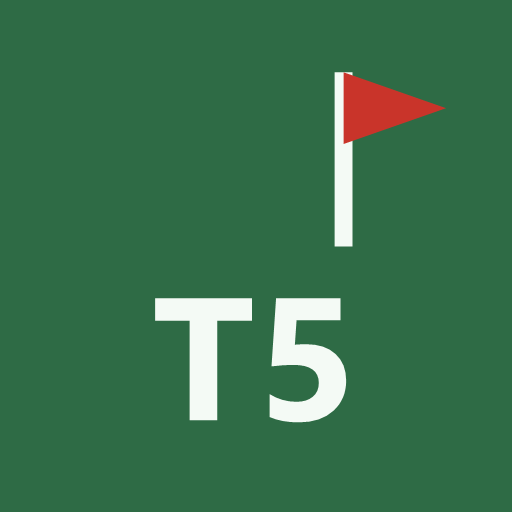
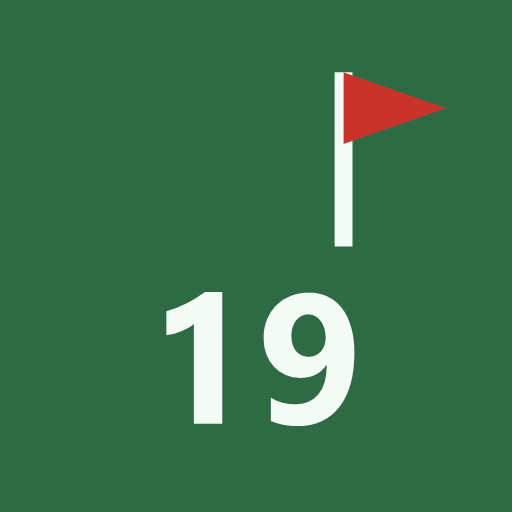
Rename to The 19th; profile photos; tap names to open profiles
- App name is now The 19th (title, home-screen name, headers, invite text, icon); Tiger 5 stays as a feature
- Profile photos: add/change/remove on the Me tab; cropped to 400px squares in the avatars bucket
- Photos replace initials in avatar circles and appear as small circles next to names in tables
- Tapping a name or avatar opens that player's profile
- supabase: profiles.avatar_url (must point at the player's own avatars folder)
- Service worker bumped to v18

Changed region(s): [[0.2812, 0.5625, 0.7188, 0.8438]]

diff --git a/app.js b/app.js
@@ -139,13 +139,13 @@ function cacheLoad(){const c=LS.get(CACHEKEY,null);if(!c||c.me!==S.me)return fal
 
 async function loadAll(){
  try{
-  const {data:prof,error:e1}=await sb.from('profiles').select('id,handle,friend_code').eq('id',S.me).maybeSingle();if(e1)throw e1;
+  const {data:prof,error:e1}=await sb.from('profiles').select('id,handle,friend_code,avatar_url').eq('id',S.me).maybeSingle();if(e1)throw e1;
   if(!prof){S.status='setup';return render()}
   const profiles={[S.me]:prof};
   const {data:fr,error:e2}=await sb.from('friendships').select('*');if(e2)throw e2;
   S.friendships=fr||[];
   const others=[...new Set(S.friendships.map(other))];
-  if(others.length){const {data:ps,error}=await sb.from('profiles').select('id,handle').in('id',others);if(error)throw error;(ps||[]).forEach(p=>profiles[p.id]=p)}
+  if(others.length){const {data:ps,error}=await sb.from('profiles').select('id,handle,avatar_url').in('id',others);if(error)throw error;(ps||[]).forEach(p=>profiles[p.id]=p)}
   const ids=[S.me,...new Set(S.friendships.filter(f=>f.status==='accepted').map(other))];
   const tripMates=await loadTrips(profiles,ids);
   await loadBoard(profiles);
@@ -191,7 +191,7 @@ async function loadTrips(profiles,friendsAndMe){
   S.trips=trips.sort((x,y)=>y.start_date.localeCompare(x.start_date));S.tripMembers=members;S.bets=betsBy;S.tripsOk=true;
   const mates=[...new Set(Object.values(members).flat())].filter(u=>!friendsAndMe.includes(u));
   const missing=mates.filter(u=>!profiles[u]);
-  if(missing.length){const {data:ps}=await sb.from('profiles').select('id,handle').in('id',missing);(ps||[]).forEach(p=>profiles[p.id]=p)}
+  if(missing.length){const {data:ps}=await sb.from('profiles').select('id,handle,avatar_url').in('id',missing);(ps||[]).forEach(p=>profiles[p.id]=p)}
   return mates;
  }catch(e){
   console.error(e);
@@ -218,7 +218,7 @@ async function loadSocial(rounds){
   }
   S.likes=likes;S.comments=comments;S.attests=attests;
   const need=[...new Set([...Object.values(likes).flat(),...Object.values(attests).flat(),...Object.values(comments).flat().map(c=>c.user_id)])].filter(u=>!S.profiles[u]);
-  if(need.length){const {data}=await sb.from('profiles').select('id,handle').in('id',need);(data||[]).forEach(p=>S.profiles[p.id]=p)}
+  if(need.length){const {data}=await sb.from('profiles').select('id,handle,avatar_url').in('id',need);(data||[]).forEach(p=>S.profiles[p.id]=p)}
  }catch(e){console.error(e)}
 }
 // Loads Betting Board bets the viewer can see, with everyone's picks.
@@ -231,7 +231,7 @@ async function loadBoard(profiles){
   const by={};picks.forEach(p=>(by[p.bet_id]=by[p.bet_id]||[]).push(p));
   S.board=bs||[];S.boardPicks=by;S.boardOk=true;
   const need=[...new Set([...S.board.map(b=>b.created_by),...picks.map(p=>p.user_id)])].filter(u=>!profiles[u]);
-  if(need.length){const {data:ps}=await sb.from('profiles').select('id,handle').in('id',need);(ps||[]).forEach(p=>profiles[p.id]=p)}
+  if(need.length){const {data:ps}=await sb.from('profiles').select('id,handle,avatar_url').in('id',need);(ps||[]).forEach(p=>profiles[p.id]=p)}
  }catch(e){
   console.error(e);
   if(e&&(e.code==='42P01'||e.code==='PGRST205'||/does not exist|schema cache/i.test(e.message||'')))S.boardOk=false;
@@ -287,8 +287,8 @@ function render(){
  if(S.status==='auth')html=authView();
  else if(S.status==='setup')html=setupView();
  else if(S.view==='play')html=playHtml();
- else if(S.status==='loading')html=header('Tiger 5')+`<div class="empty"><b>Loading your group…</b>Rounds and friends appear here in a moment.</div>`;
- else if(S.status!=='ready')html=header('Tiger 5')+offlineView();
+ else if(S.status==='loading')html=header('The 19th')+`<div class="empty"><b>Loading your group…</b>Rounds and friends appear here in a moment.</div>`;
+ else if(S.status!=='ready')html=header('The 19th')+offlineView();
  else if(S.view==='friends')html=friendsView();
  else if(S.view==='board')html=boardView();
  else if(S.view==='newbet')html=newBetView();
@@ -316,9 +316,16 @@ function renderTabs(){
 }
 function header(title,eyebrow){
  const ready=S.status==='ready';
- return `<header class="top"><div style="min-width:0"><span class="eyebrow">${esc(eyebrow||'Tiger 5')}${S.offline&&ready?' · offline':''}</span><h1>${esc(title)}</h1></div>${ready?`<button class="idx" data-nav="me" aria-label="Your handicap index"><b>${fmtIdx(myIndex())}</b><span>Index</span></button>`:''}</header>`;
+ return `<header class="top"><div style="min-width:0"><span class="eyebrow">${esc(eyebrow||'The 19th')}${S.offline&&ready?' · offline':''}</span><h1>${esc(title)}</h1></div>${ready?`<button class="idx" data-nav="me" aria-label="Your handicap index"><b>${fmtIdx(myIndex())}</b><span>Index</span></button>`:''}</header>`;
 }
-const av=(id)=>`<span class="av" style="background:${avColor(id)}" aria-hidden="true">${esc(initials(handle(id)))}</span>`;
+// Avatar circle: the player's photo if they've added one, otherwise colored initials.
+// Only photos from this app's own avatars bucket are shown.
+const AVATAR_PREFIX=(CFG.supabaseUrl||'')+'/storage/v1/object/public/avatars/';
+const photoOf=(id)=>{const u=S.profiles[id]&&S.profiles[id].avatar_url;return u&&u.startsWith(AVATAR_PREFIX)?u:null};
+const av=(id,cls='')=>{const u=photoOf(id);return u?`<img class="av ${cls}" src="${esc(u)}" alt="" loading="lazy" decoding="async">`
+ :`<span class="av ${cls}" style="background:${avColor(id)}" aria-hidden="true">${esc(initials(handle(id)))}</span>`};
+// Small photo circle next to a name in tables and lists.
+const withPic=(id,label)=>`<span class="npic">${av(id,'xs')}<span>${esc(label)}</span></span>`;
 
 function offlineView(){
  const msg=!configured?'This copy isn’t connected to a database yet. Add your Supabase details to config.js (see README.md).'
@@ -328,7 +335,7 @@ function offlineView(){
 }
 function authView(){
  const up=S.authStep==='signup';
- return `${header(up?'Create account':'Sign in','Tiger 5')}
+ return `${header(up?'Create account':'Sign in','The 19th')}
  <div class="card"><p style="margin-top:0">Track your score, your handicap index and the five mistakes that cost you strokes, and see your friends’ rounds.</p>
  <div class="seg" style="margin-bottom:4px"><button data-act="authmode" data-m="signin" aria-pressed="${!up}">Sign in</button><button data-act="authmode" data-m="signup" aria-pressed="${up}">Create account</button></div>
  <label for="email">Email</label><input id="email" type="email" autocomplete="email" inputmode="email" placeholder="you@example.com" value="${esc(S.authEmail)}">
@@ -339,7 +346,7 @@ function authView(){
  </div>${LS.get(INVKEY,null)?`<p class="sub">You were invited by a friend. ${up?'Create an account':'Sign in'} and we’ll connect you.</p>`:''}`;
 }
 function setupView(){
- return `${header('Welcome','Tiger 5')}
+ return `${header('Welcome','The 19th')}
  <div class="card"><label for="handle">Your name in the app</label><input id="handle" maxlength="30" autocomplete="nickname" placeholder="e.g. Alec C.">
  <p class="hint">This is how friends will see you.</p>
  <button class="primary wide" style="margin-top:14px" data-act="join" ${S.busy?'disabled':''}>Continue</button></div>`;
@@ -374,12 +381,12 @@ function feedCard(r){
  const rings=[
   ['Score',r.score,r.complete?rel(r.score-r.parPlayed):r.holesPlayed+' holes',r.diff==null?none:ix==null?ok:r.diff<=ix?good:r.diff<=ix+3?ok:bad],
   ['Putts',r.putts==null?'–':r.putts,r.putts==null?'not tracked':(p18/18).toFixed(1)+'/hole',p18==null?none:p18<=32?good:p18<=36?ok:bad],
-  ['Tiger 5',r.t5,'misses',r.t5<=3?good:r.t5<=7?ok:bad],
+  ['The 19th',r.t5,'misses',r.t5<=3?good:r.t5<=7?ok:bad],
   ['Diff',fmtDiff(r.diff),r.diff==null?'not rated':'differential',r.diff==null?none:ix==null?ok:r.diff<=ix?good:r.diff<=ix+3?ok:bad]];
  const key=esc(r.uid)+'/'+esc(r.id);
  return `<article class="card fcard">
+ <button class="fhead" data-player="${esc(r.uid)}" aria-label="View ${esc(mine?'your':handle(r.uid)+'’s')} profile">${av(r.uid)}<div class="mid"><b>${esc(mine?'You':handle(r.uid))}${ix!=null?` <span class="fidx">${fmtIdx(ix)}</span>`:''}</b></div><span class="fwhen">${relDay(r.date)}</span></button>
  <button class="fmain" data-round="${key}" aria-label="Open ${esc(mine?'your':handle(r.uid)+'’s')} round at ${esc(r.course)}">
-  <div class="fhead">${av(r.uid)}<div class="mid"><b>${esc(mine?'You':handle(r.uid))}${ix!=null?` <span class="fidx">${fmtIdx(ix)}</span>`:''}</b></div><span class="fwhen">${relDay(r.date)}</span></div>
   <div class="fcourse">${FLAG}<span>${esc(r.course)}</span></div>
   <div class="ftee">${[r.tee?esc(r.tee)+' tees':'',r.n===9?(r.nine==='back'?'Back 9':'Front 9'):''].filter(Boolean).join(' · ')}</div>
   <div class="rings">${rings.map(([l,v,s,c])=>`<div class="ring"><span class="rl">${l}</span><b style="--ring:${c}">${v}</b><small>${s}</small></div>`).join('')}</div>
@@ -392,7 +399,7 @@ function feedCard(r){
  </div>
  <div class="fcomments">
   ${coms.length>3?`<button class="link" data-comments="${key}">View all ${coms.length} comments</button>`:''}
-  ${coms.slice(-3).map(c=>`<p><b>${esc(c.user_id===S.me?'You':handle(c.user_id))}</b> ${esc(c.body)}</p>`).join('')}
+  ${coms.slice(-3).map(c=>`<p><button class="link plain namelink" data-player="${esc(c.user_id)}">${esc(c.user_id===S.me?'You':handle(c.user_id))}</button> ${esc(c.body)}</p>`).join('')}
   <div class="row"><input id="fc-${esc(r.id)}" maxlength="500" placeholder="Add a comment…" autocomplete="off" aria-label="Comment on this round"><button style="flex:none" data-act="postcomment" data-id="${esc(r.id)}" data-input="fc-${esc(r.id)}">Post</button></div>
  </div>`}
  </article>`;
@@ -458,7 +465,7 @@ function friendsView(){
   <div class="row"><span class="code">${esc(me().friend_code||'——')}</span><button class="primary" data-act="share">Share invite link</button></div></div>`;
  h+=`<h2>Handicap standings</h2>`;
  const st=[S.me,...fr].map(id=>({id,h:hcp(S.rounds[id]),n:(S.rounds[id]||[]).length})).sort((a,b)=>(a.h.index==null)-(b.h.index==null)||(a.h.index||0)-(b.h.index||0));
- h+=`<div class="card"><table><thead><tr><th>Player</th><th class="n">Rounds</th><th class="n">Index</th></tr></thead><tbody>${st.map((s,i)=>`<tr><td><button class="link plain" style="color:var(--ink);text-decoration:none;font-weight:600" data-player="${esc(s.id)}">${i+1}. ${esc(s.id===S.me?'You':handle(s.id))}</button></td><td class="n" style="font-weight:400">${s.n}</td><td class="n">${fmtIdx(s.h.index)}</td></tr>`).join('')}</tbody></table>${fr.length?'':`<p class="hint">Add friends to compare handicaps.</p>`}</div>`;
+ h+=`<div class="card"><table><thead><tr><th>Player</th><th class="n">Rounds</th><th class="n">Index</th></tr></thead><tbody>${st.map((s,i)=>`<tr><td><button class="link plain" style="color:var(--ink);text-decoration:none;font-weight:600" data-player="${esc(s.id)}">${i+1}. ${withPic(s.id,s.id===S.me?'You':handle(s.id))}</button></td><td class="n" style="font-weight:400">${s.n}</td><td class="n">${fmtIdx(s.h.index)}</td></tr>`).join('')}</tbody></table>${fr.length?'':`<p class="hint">Add friends to compare handicaps.</p>`}</div>`;
  if(fr.length){h+=`<h2>Your friends</h2>`;fr.forEach(id=>{const x=hcp(S.rounds[id]);h+=`<div class="card item"><button class="item plain" data-player="${esc(id)}">${av(id)}<div class="mid"><b>${esc(handle(id))}</b><span>Index ${fmtIdx(x.index)} · ${(S.rounds[id]||[]).length} rounds</span></div></button>${S.confirm==='rm:'+id?`<button data-act="unfriend" data-id="${esc(id)}">Remove</button><button class="link" data-act="cancelc">Keep</button>`:`<button class="link" data-act="ask" data-c="rm:${esc(id)}">Remove</button>`}</div>`})}
  if(out.length){h+=`<h2>Waiting on them</h2>`;out.forEach(id=>h+=`<div class="card item">${av(id)}<div class="mid"><b>${esc(handle(id))}</b><span>Request sent</span></div><button class="link" data-act="unfriend" data-id="${esc(id)}">Cancel</button></div>`)}
  return h;
@@ -479,11 +486,13 @@ function playerView(id){
  const mineView=id===S.me;
  if(!mineView&&!isFriend(id))return header(handle(id),'Player')+`<div class="card empty"><b>Scores are shared between friends</b>Add ${esc(handle(id))} as a friend to see all their rounds.<div style="margin-top:14px">${friendAction(id,'Add friend')}</div></div>`;
  const rounds=S.rounds[id]||[],x=hcp(rounds);
- let h=header(mineView?'Your card':handle(id),mineView?'Tiger 5':'Friend');
+ let h=header(mineView?'Your card':handle(id),mineView?'The 19th':'Friend');
  if(mineView){
   h+=S.editName?`<div class="card"><label for="newname">Your name in the app</label><input id="newname" maxlength="30" value="${esc(me().handle||'')}"><div class="row" style="margin-top:10px"><button class="primary" data-act="savename">Save</button><button data-act="cancelname">Cancel</button></div></div>`
    :`<p class="sub">Playing as <b>${esc(me().handle||'')}</b> · <button class="link" data-act="editname">Change name</button> · <button class="link" data-act="signout">Sign out</button></p>`;
  }
+ // Profile photo: big circle; on your own card, buttons to add, change or remove it.
+ h+=`<div class="phead">${av(id,'lg')}${mineView?`<div><label class="filebtn" for="avfile">${S.busy==='photo'?'Uploading…':photoOf(id)?'Change photo':'Add a photo'}</label><input id="avfile" type="file" accept="image/*" hidden>${photoOf(id)?`<button class="link" data-act="rmphoto">Remove photo</button>`:''}<p class="hint" style="margin:6px 0 0">Shows next to your name for your friends.</p></div>`:`<div><p class="hint" style="margin:0">${(S.rounds[id]||[]).length} rounds posted</p></div>`}</div>`;
  const complete=rounds.filter(r=>r.complete),holes=complete.reduce((a,r)=>a+r.n,0);
  const t5per18=holes?complete.reduce((a,r)=>a+r.t5,0)/holes*18:null;
  const f18=complete.filter(r=>r.n===18);
@@ -510,6 +519,7 @@ function roundView(key){
  if(!r)return header('Round')+`<div class="card empty"><b>Round not found</b>It may have been deleted.</div>`;
  const mine=u===S.me,x=hcp(S.rounds[u]);
  let h=header(r.course,(mine?'You':handle(u))+' · '+fmtDate(r.date));
+ h+=`<button class="item plain" style="margin:0 0 8px" data-player="${esc(u)}">${av(u)}<div class="mid"><b>${esc(mine?'You':handle(u))}</b><span>View profile</span></div></button>`;
  h+=`<p class="sub">${r.tee?esc(r.tee)+' tees · ':''}${r.rating?`${r.rating}/${r.slope}`:'No rating'}${r.n===9?' · 9 holes':''}${x.used.has(r.id)?' · <span class="tag">Counts toward index</span>':''}</p>`;
  h+=`<div class="card big"><div><b>${r.score}</b><span>${r.complete?rel(r.score-r.parPlayed)+' to par':r.holesPlayed+' holes'}</span></div><div><b>${r.net!=null?r.net:'—'}</b><span>Net${r.ch!=null?` (CH ${r.ch})`:''}</span></div><div><b>${fmtDiff(r.diff)}</b><span>Differential</span></div><div><b>${r.t5}</b><span>Tiger 5</span></div></div>`;
  const hs=r.holes||[],start=r.nine==='back'?10:1;
@@ -533,7 +543,7 @@ function roundView(key){
   if(likes.length||att.length)h+=`<p class="hint" style="margin:0 0 10px">${likes.length?'👍 Liked by '+esc(namesList(likes)):''}${likes.length&&att.length?' · ':''}${att.length?'✋ Attested by '+esc(namesList(att)):''}</p>`;
   if(!att.length&&!mine)h+=`<p class="hint" style="margin:-4px 0 10px">Played with ${esc(handle(u))}? Attest to vouch for the score.</p>`;
   h+=`<h2 id="comments">Comments${coms.length?' ('+coms.length+')':''}</h2><div class="card">`;
-  h+=coms.length?coms.map(c=>`<div class="comment">${av(c.user_id)}<div class="mid"><b>${esc(c.user_id===S.me?'You':handle(c.user_id))}</b> <span class="hint" style="margin:0">${relDay(c.created_at.slice(0,10))}</span><p>${esc(c.body)}</p></div>${c.user_id===S.me||mine?`<button class="link" data-delcomment="${esc(c.id)}" data-rid="${esc(r.id)}" aria-label="Delete comment">Delete</button>`:''}</div>`).join(''):`<p class="hint" style="margin:0 0 6px">No comments yet. Say something nice. Or don’t.</p>`;
+  h+=coms.length?coms.map(c=>`<div class="comment">${av(c.user_id)}<div class="mid"><button class="link plain namelink" data-player="${esc(c.user_id)}">${esc(c.user_id===S.me?'You':handle(c.user_id))}</button> <span class="hint" style="margin:0">${relDay(c.created_at.slice(0,10))}</span><p>${esc(c.body)}</p></div>${c.user_id===S.me||mine?`<button class="link" data-delcomment="${esc(c.id)}" data-rid="${esc(r.id)}" aria-label="Delete comment">Delete</button>`:''}</div>`).join(''):`<p class="hint" style="margin:0 0 6px">No comments yet. Say something nice. Or don’t.</p>`;
   h+=`<div class="row" style="margin-top:8px"><input id="cbody" maxlength="500" placeholder="Add a comment…" autocomplete="off"><button class="primary" style="flex:none" data-act="postcomment" data-id="${esc(r.id)}" ${S.busy?'disabled':''}>Post</button></div></div>`;
  }
  if(mine&&!r.pending)h+=S.confirm==='del'?`<div class="card note"><p style="margin-top:0">Delete this round for good? It also comes off your handicap.</p><div class="row"><button class="danger" data-act="delround" data-id="${esc(r.id)}">Delete round</button><button data-act="cancelc">Keep it</button></div></div>`:`<button class="wide" data-act="ask" data-c="del">Delete round</button>`;
@@ -681,7 +691,7 @@ function tripView(id){
    const s=betStandings(t,b);
    h+=`<p class="hint" style="margin:4px 0 0">${k.single?'Lowest 18-hole score in a single round':b.scoring==='avg'?'Average per 18 holes':'Total across all trip rounds'}</p>`;
    if(!s.ranked.length)h+=`<p class="hint">No finished trip rounds yet.</p>`;
-   else h+=`<table style="margin-top:6px"><tbody>${s.ranked.map(r=>`<tr class="${s.leaders.includes(r.uid)?'lead':''}"><td>${esc(who(r.uid))}</td><td class="n" style="font-weight:400;color:var(--mute)">${r.n} rd${r.n===1?'':'s'}</td><td class="n">${r.v}</td></tr>`).join('')}${s.none.map(r=>`<tr><td style="color:var(--mute)">${esc(who(r.uid))}</td><td></td><td class="n" style="font-weight:400;color:var(--mute)">${b.kind==='net'?'no index':(b.kind==='putts'||b.kind==='three_putts')&&tripRounds(t,r.uid).length?'no putts':'—'}</td></tr>`).join('')}</tbody></table>`;
+   else h+=`<table style="margin-top:6px"><tbody>${s.ranked.map(r=>`<tr class="${s.leaders.includes(r.uid)?'lead':''}"><td>${withPic(r.uid,who(r.uid))}</td><td class="n" style="font-weight:400;color:var(--mute)">${r.n} rd${r.n===1?'':'s'}</td><td class="n">${r.v}</td></tr>`).join('')}${s.none.map(r=>`<tr><td style="color:var(--mute)">${withPic(r.uid,who(r.uid))}</td><td></td><td class="n" style="font-weight:400;color:var(--mute)">${b.kind==='net'?'no index':(b.kind==='putts'||b.kind==='three_putts')&&tripRounds(t,r.uid).length?'no putts':'—'}</td></tr>`).join('')}</tbody></table>`;
    if(s.uneven)h+=`<p class="hint">Players have played different numbers of rounds, so totals aren’t a fair comparison yet.</p>`;
    if(s.leaders.length)h+=`<p class="hint">${st==='done'?'Won by':'Leading:'} <b>${esc(s.leaders.map(who).join(' & '))}</b>${s.leaders.length>1&&stake?' (pot split)':''}</p>`;
   }
@@ -710,7 +720,7 @@ function tripView(id){
 
  if(tab==='players'){
  h+=`<div class="card">`;
- h+=mem.map(u=>`<div class="item" style="padding:6px 0">${av(u)}<div class="mid"><b>${esc(who(u))}</b>${u===t.created_by?'<span>Organizer</span>':''}</div>${friendAction(u,'Add friend')}${owner&&u!==S.me?`<button class="link" data-act="rmmember" data-u="${esc(u)}">Remove</button>`:''}</div>`).join('');
+ h+=mem.map(u=>`<div class="item" style="padding:6px 0"><button class="item plain" data-player="${esc(u)}" aria-label="View ${esc(who(u))} profile">${av(u)}<div class="mid"><b>${esc(who(u))}</b>${u===t.created_by?'<span>Organizer</span>':''}</div></button>${friendAction(u,'Add friend')}${owner&&u!==S.me?`<button class="link" data-act="rmmember" data-u="${esc(u)}">Remove</button>`:''}</div>`).join('');
  if(mem.some(u=>u!==S.me&&!isFriend(u)))h+=`<p class="hint">Friends see each other’s rounds all year, not just on this trip.</p>`;
  {
   // Anyone on the trip can add their own friends; only the organizer removes others.
@@ -734,7 +744,7 @@ function extrasBoard(t,key,emoji,one,many){
  const rows=mem.map(u=>{const rs=allTripRounds(t,u);return{u,n:rs.length,tot:rs.reduce((a,r)=>a+holeSum(r,key),0)}}).sort((a,b)=>b.tot-a.tot||b.n-a.n);
  const grand=rows.reduce((a,r)=>a+r.tot,0),top=rows.length&&rows[0].tot?rows[0].tot:null;
  let h=`<div class="card big" style="margin-bottom:10px"><div><b>${emoji} ${grand}</b><span>${grand===1?one:many} on the trip</span></div></div>`;
- h+=`<div class="card"><table><thead><tr><th>Player</th><th class="n">Rounds</th><th class="n">Per round</th><th class="n">Total</th></tr></thead><tbody>${rows.map(r=>`<tr class="${top!=null&&r.tot===top?'lead':''}"><td>${esc(who(r.u))}</td><td class="n" style="font-weight:400;color:var(--mute)">${r.n}</td><td class="n" style="font-weight:400">${r.n?(r.tot/r.n).toFixed(1):'—'}</td><td class="n">${r.tot}</td></tr>`).join('')}</tbody></table>
+ h+=`<div class="card"><table><thead><tr><th>Player</th><th class="n">Rounds</th><th class="n">Per round</th><th class="n">Total</th></tr></thead><tbody>${rows.map(r=>`<tr class="${top!=null&&r.tot===top?'lead':''}"><td>${withPic(r.u,who(r.u))}</td><td class="n" style="font-weight:400;color:var(--mute)">${r.n}</td><td class="n" style="font-weight:400">${r.n?(r.tot/r.n).toFixed(1):'—'}</td><td class="n">${r.tot}</td></tr>`).join('')}</tbody></table>
  <p class="hint">Counted from the ${emoji} ${many} entered hole by hole on rounds posted ${fmtRange(t)}.</p></div>`;
  return h;
 }
@@ -742,14 +752,14 @@ function settleCard(t,sv,title,note){
  const mem=S.tripMembers[t.id]||[],who=(u)=>u===S.me?'You':handle(u);
  const sgn=(v)=>{v=Math.round((v||0)*100)/100;return `<span class="${v>0?'pos':v<0?'neg':''}">${v>0?'+':v<0?'−':''}${fmtMoney(v)}</span>`};
  return `<h2>${esc(title)}</h2><div class="card">`
-  +(sv.pays.length?`<table><tbody>${sv.pays.map(p=>`<tr><td>${esc(who(p.from))} pay${p.from===S.me?'':'s'} ${esc(p.to===S.me?'you':handle(p.to))}</td><td class="n">${fmtMoney(p.amt)}</td></tr>`).join('')}</tbody></table>`:`<p style="margin:0">Nobody owes anything yet.</p>`)
+  +(sv.pays.length?`<table><tbody>${sv.pays.map(p=>`<tr><td>${av(p.from,'xs')} ${esc(who(p.from))} pay${p.from===S.me?'':'s'} ${esc(p.to===S.me?'you':handle(p.to))}</td><td class="n">${fmtMoney(p.amt)}</td></tr>`).join('')}</tbody></table>`:`<p style="margin:0">Nobody owes anything yet.</p>`)
   +`<p class="hint">Net: ${mem.map(u=>`${esc(who(u))} ${sgn(sv.net[u])}`).join(' · ')}</p><p class="hint">${esc(note)} The app only keeps track; settle up however your group pays each other.</p></div>`;
 }
 function expensesSection(t,mem,who){
  const list=S.expenses[t.id]||[],ex=expenseTotals(t),total=list.reduce((a,e)=>a+e.amount,0);
  let h='';
  if(list.length){
-  h+=`<div class="card"><div class="bet-head"><b>Trip spending</b><span class="money">${fmtMoney(total)}</span></div><table style="margin-top:6px"><thead><tr><th>Player</th><th class="n">Paid</th><th class="n">Their share</th></tr></thead><tbody>${mem.map(u=>`<tr><td>${esc(who(u))}</td><td class="n" style="font-weight:400">${fmtMoney(ex.paid[u]||0)}</td><td class="n">${fmtMoney(ex.share[u]||0)}</td></tr>`).join('')}</tbody></table></div>`;
+  h+=`<div class="card"><div class="bet-head"><b>Trip spending</b><span class="money">${fmtMoney(total)}</span></div><table style="margin-top:6px"><thead><tr><th>Player</th><th class="n">Paid</th><th class="n">Their share</th></tr></thead><tbody>${mem.map(u=>`<tr><td>${withPic(u,who(u))}</td><td class="n" style="font-weight:400">${fmtMoney(ex.paid[u]||0)}</td><td class="n">${fmtMoney(ex.share[u]||0)}</td></tr>`).join('')}</tbody></table></div>`;
   h+=settleCard(t,settleReceipts(t),'Settle up receipts','Receipts only: what each person paid minus their share.');
   h+=`<h2>All receipts</h2>`;
   list.forEach(e=>{
@@ -771,6 +781,28 @@ function expensesSection(t,mem,who){
  <button class="primary wide" style="margin-top:14px" data-act="addexpense" ${S.busy?'disabled':''}>${S.busy?'Saving…':'Add receipt'}</button></div>`;
  if(S.receiptView)h+=`<div class="overlay" role="dialog" aria-label="Receipt"><div class="row" style="flex:none"><b style="color:#fff">Receipt</b><button data-act="closereceipt" style="flex:none">Close</button></div>${S.receiptView.pdf?`<p style="color:#fff">This receipt is a PDF.</p><a class="primary" style="display:block;text-align:center;padding:12px;border-radius:10px;background:var(--green);color:var(--on-green)" href="${esc(S.receiptView.url)}" target="_blank" rel="noopener">Open PDF</a>`:`<img src="${esc(S.receiptView.url)}" alt="Receipt photo">`}</div>`;
  return h;
+}
+// Profile photo: crop to a centered square, shrink to 400px JPEG, upload to
+// avatars/<your id>/<random>.jpg, save the link, then remove the old file.
+async function uploadPhoto(file){
+ if(S.busy)return;
+ S.busy='photo';render();
+ try{
+  const url=URL.createObjectURL(file);
+  const img=await new Promise((res,rej)=>{const i=new Image();i.onload=()=>res(i);i.onerror=()=>rej(new Error('That file isn’t a photo the app can read. Try a JPEG or PNG.'));i.src=url});
+  const side=Math.min(img.naturalWidth,img.naturalHeight),c=document.createElement('canvas');c.width=c.height=400;
+  c.getContext('2d').drawImage(img,(img.naturalWidth-side)/2,(img.naturalHeight-side)/2,side,side,0,0,400,400);URL.revokeObjectURL(url);
+  const blob=await new Promise(r=>c.toBlob(r,'image/jpeg',0.85));if(!blob)throw new Error('Couldn’t process that photo.');
+  const path=S.me+'/'+newId()+'.jpg';
+  const up=await sb.storage.from('avatars').upload(path,blob,{contentType:'image/jpeg',upsert:false});if(up.error)throw up.error;
+  const pub=sb.storage.from('avatars').getPublicUrl(path).data.publicUrl,old=photoOf(S.me);
+  const {error}=await sb.from('profiles').update({avatar_url:pub}).eq('id',S.me);
+  if(error){sb.storage.from('avatars').remove([path]);throw error}
+  S.profiles[S.me]={...me(),avatar_url:pub};
+  if(old)sb.storage.from('avatars').remove([old.slice(AVATAR_PREFIX.length)]).catch(()=>{});
+  toast('Photo updated');
+ }catch(e){fail(e,'Your photo didn’t upload.')}
+ S.busy=false;render();
 }
 // Shrinks photos to at most 1600px (JPEG) so uploads are quick and storage stays small.
 async function prepReceipt(file){
@@ -911,11 +943,11 @@ function boardCard(b){
   const tot=ps.reduce((a,p)=>a+pickAmt(p),0);
   const action=S.settling===b.id?`<button class="primary" data-act="settlebet" data-id="${esc(b.id)}" data-opt="${i}">Won</button>`
    :open?`<button data-pickbet="${esc(b.id)}" data-opt="${i}" aria-pressed="${!!mineHere}">${mineHere?'Your pick':'Pick'}</button>`:'';
-  h+=`<div class="opt${won?' won':''}"><div class="mid"><b>${esc(o)}${won?' ✓':''}${tot?` <span class="money" style="font-size:14px;color:var(--mute)">${fmtMoney(tot)}</span>`:''}</b><span>${ps.length?esc(ps.map(p=>who(p.user_id)+(pickAmt(p)?' '+fmtMoney(pickAmt(p)):'')).join(', ')):'No picks'}</span></div>${action}</div>`;
+  h+=`<div class="opt${won?' won':''}"><div class="mid"><b>${esc(o)}${won?' ✓':''}${tot?` <span class="money" style="font-size:14px;color:var(--mute)">${fmtMoney(tot)}</span>`:''}</b><span>${ps.length?ps.map(p=>withPic(p.user_id,who(p.user_id)+(pickAmt(p)?' '+fmtMoney(pickAmt(p)):''))).join(' '):'No picks'}</span></div>${action}</div>`;
  });
  if(open&&mine)h+=`<p style="margin:6px 0 0"><button class="link" data-act="unpick" data-id="${esc(b.id)}">Withdraw my pick</button></p>`;
  const pay=boardPayout(b);
- if(pay)h+=pay.pays.length?`<table style="margin-top:8px"><tbody>${pay.pays.map(x=>`<tr><td>${esc(who(x.from))} pay${x.from===S.me?'':'s'} ${esc(x.to===S.me?'you':handle(x.to))}</td><td class="n">${fmtMoney(x.amt)}</td></tr>`).join('')}</tbody></table>`
+ if(pay)h+=pay.pays.length?`<table style="margin-top:8px"><tbody>${pay.pays.map(x=>`<tr><td>${av(x.from,'xs')} ${esc(who(x.from))} pay${x.from===S.me?'':'s'} ${esc(x.to===S.me?'you':handle(x.to))}</td><td class="n">${fmtMoney(x.amt)}</td></tr>`).join('')}</tbody></table>`
   :`<p class="hint">No money changes hands${pot?' (nobody picked the losing side, or nobody picked the winner)':''}.</p>`;
  if(owner){
   const btn=(act,label,cls)=>`<button ${cls?`class="${cls}"`:''} data-act="${act}" data-id="${esc(b.id)}">${label}</button>`;
@@ -1092,8 +1124,8 @@ async function unfriend(id){
  loadAll();
 }
 async function shareInvite(){
- const url=inviteUrl(),text=`Add me on Tiger 5 so we can see each other's golf scores. My code is ${me().friend_code}.`;
- if(navigator.share){try{await navigator.share({title:'Tiger 5',text,url});return}catch(e){if(e&&e.name==='AbortError')return}}
+ const url=inviteUrl(),text=`Add me on The 19th so we can see each other's golf scores. My code is ${me().friend_code}.`;
+ if(navigator.share){try{await navigator.share({title:'The 19th',text,url});return}catch(e){if(e&&e.name==='AbortError')return}}
  try{await navigator.clipboard.writeText(text+' '+url);toast('Invite link copied')}catch(e){toast('Your invite link: '+url)}
 }
 
@@ -1184,6 +1216,12 @@ document.addEventListener('click',async e=>{
   toast('Round deleted');go('feed');return loadAll();
  }
  if(a==='import')return importOld();
+ if(a==='rmphoto'){
+  const old=photoOf(S.me);const {error}=await sb.from('profiles').update({avatar_url:null}).eq('id',S.me);
+  if(error)return fail(error,'Couldn’t remove your photo.');
+  S.profiles[S.me]={...me(),avatar_url:null};if(old)sb.storage.from('avatars').remove([old.slice(AVATAR_PREFIX.length)]).catch(()=>{});
+  toast('Photo removed');return render();
+ }
  if(a==='addexpense')return addExpense();
  if(a==='exnofile'){S.exFile=null;return render()}
  if(a==='viewreceipt'){
@@ -1256,6 +1294,7 @@ document.addEventListener('change',e=>{
  const id=e.target.id;
  if(id==='course'){const v=e.target.value,t=$('#tee');t.innerHTML=v?teeOpts(v):'<option value="">n/a</option>';t.disabled=!v;$('#otherWrap').hidden=!!v;const rs=v?teeRS(v,t.value):{r:'',s:''};$('#rating').value=rs.r;$('#slope').value=rs.s;updateCH()}
  if(id==='bkind'){S.betKind=e.target.value;return render()}
+ if(id==='avfile'){const f=e.target.files&&e.target.files[0];if(f)uploadPhoto(f);return}
  if(id==='exphoto'){const f=e.target.files&&e.target.files[0];if(f&&f.size>20e6)return toast('That file is too big. Try a smaller photo.');S.exFile=f||null;return render()}
  if(id==='tee'){const rs=teeRS($('#course').value,e.target.value);$('#rating').value=rs.r;$('#slope').value=rs.s;updateCH()}
 });

diff --git a/index.html b/index.html
@@ -3,12 +3,12 @@
 <head>
 <meta charset="utf-8">
 <meta name="viewport" content="width=device-width, initial-scale=1, viewport-fit=cover">
-<title>Tiger 5 Scorecard</title>
-<meta name="description" content="Golf scores, handicap index and Tiger 5 tracking for you and your friends.">
+<title>The 19th</title>
+<meta name="description" content="Golf scores, handicaps, Tiger 5 tracking, trips and side bets for you and your friends.">
 <meta name="theme-color" content="#2e6b45">
 <meta name="apple-mobile-web-app-capable" content="yes">
 <meta name="mobile-web-app-capable" content="yes">
-<meta name="apple-mobile-web-app-title" content="Tiger 5">
+<meta name="apple-mobile-web-app-title" content="The 19th">
 <meta name="apple-mobile-web-app-status-bar-style" content="default">
 <link rel="manifest" href="manifest.webmanifest">
 <link rel="icon" type="image/png" sizes="192x192" href="icons/icon-192.png">
@@ -136,8 +136,8 @@ td.n,th.n{text-align:right;font-weight:800}
 input[type=file]{padding:8px;background:var(--card)}
 /* Feed card */
 .fcard{padding:0;overflow:hidden}
-.fmain{display:block;width:100%;text-align:left;border:0;border-radius:0;background:none;padding:14px 14px 12px;min-height:0}
-.fhead{display:flex;align-items:center;gap:10px}
+.fmain{display:block;width:100%;text-align:left;border:0;border-radius:0;background:none;padding:0 14px 12px;min-height:0}
+.fhead{display:flex;align-items:center;gap:10px;width:100%;text-align:left;border:0;border-radius:0;background:none;padding:14px 14px 0;min-height:0}
 .fhead .av{width:44px;height:44px;font-size:16px}
 .fhead .mid b{font-size:18px;font-weight:800}
 .fidx{color:var(--green);font-weight:600;font-size:15px;margin-left:2px}
@@ -156,6 +156,15 @@ input[type=file]{padding:8px;background:var(--card)}
 .factions button+button{border-left:1px solid var(--line)}
 .factions button[aria-pressed=true]{color:var(--green)}
 .card>.factions:only-child,.factions[style]{border:1px solid var(--line);border-radius:12px;background:var(--card);overflow:hidden}
+img.av{object-fit:cover;background:var(--line)}
+.av.xs{width:22px;height:22px;font-size:10px;display:inline-grid;vertical-align:middle;flex:none}
+.av.lg{width:84px;height:84px;font-size:30px;border:3px solid var(--green)}
+.npic{display:inline-flex;align-items:center;gap:6px;vertical-align:middle;max-width:100%}
+.npic>span{min-width:0;overflow:hidden;text-overflow:ellipsis}
+.opt .mid span .npic{margin-right:8px}
+.phead{display:flex;align-items:center;gap:14px;margin:0 0 14px}
+.filebtn{display:inline-block;margin:0 8px 0 0;padding:9px 14px;border-radius:10px;background:var(--green);color:var(--on-green);font-weight:600;cursor:pointer}
+.namelink{font-weight:800;color:var(--ink);text-decoration:none;padding:0;min-height:0}
 .rating{display:flex;flex-direction:column;align-items:center;text-align:center;gap:2px}
 .rating .rl{font-size:12px;color:var(--mute);text-transform:uppercase;letter-spacing:.1em;font-weight:600}
 .rating b{font-size:28px;font-weight:800;line-height:1.2}

diff --git a/sw.js b/sw.js
@@ -1,6 +1,6 @@
 // Service worker: keeps the app usable on the course with weak signal.
 // Bump VERSION whenever you change app files so phones pick up the update.
-const VERSION = 'tiger5-v17';
+const VERSION = 'tiger5-v18';
 const SHELL = [
   './', 'index.html', 'app.js', 'config.js', 'manifest.webmanifest',
   'icons/icon-192.png', 'icons/icon-512.png', 'icons/apple-touch-icon.png'

diff --git a/README.md b/README.md
@@ -1,4 +1,4 @@
-# Tiger 5 Scorecard
+# The 19th
 
 Golf scoring for you and your friends: Tiger 5 mistake tracking, a World Handicap System index, friend requests, and a shared feed of posted rounds. It runs on GitHub Pages, installs to a phone's home screen, and keeps scoring when you lose signal on the course.
 
@@ -50,6 +50,9 @@ On a trip, anyone can add a receipt: what it was for, the total, who paid, who i
 The Trips page splits **Current trips** and **Completed trips**. A trip is completed after its last day, or when the organizer taps **End trip** (which pulls the last day in to today so later rounds stop counting; **Reopen** undoes it).
 
 A trip page has four buttons: **Bets**, **Receipts**, **Rounds** and **Players**. Bets and receipts settle up separately: **Bets** ends with a bets-only settle-up, and **Receipts** has its own settle-up (what each person paid minus their share). Each lists the fewest payments that square that ledger.
+
+## Profiles and photos
+Tap any player's name or avatar (feed cards, round pages, comments, trip players) to open their profile; friends' profiles show their index, rating, averages and rounds. On the **Me** tab you can add, change or remove a profile photo. Photos are cropped to a 400px square and stored in the public `avatars` bucket under each player's own folder (only they can change it); the app only displays photos from that bucket.
 
 ## Feed, likes, comments and attests
 Each posted round shows as a card with Score, Putts, Tiger 5 and Differential circles (green = good, gold = so-so, red = rough), its trophy or poo rating, and 🍺 / 💨 GB totals. Friends can **Like** a round, **Comment** on it, and **Attest** it to vouch for the score (you can't attest your own). `supabase/social.sql` holds these tables (already applied to the live database); only people who can see a round can see or add to its likes, comments and attests.
